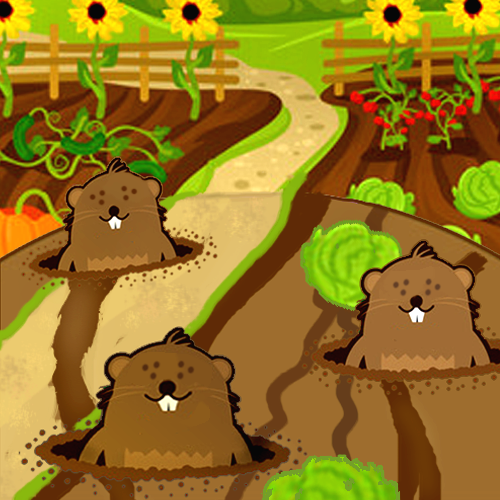
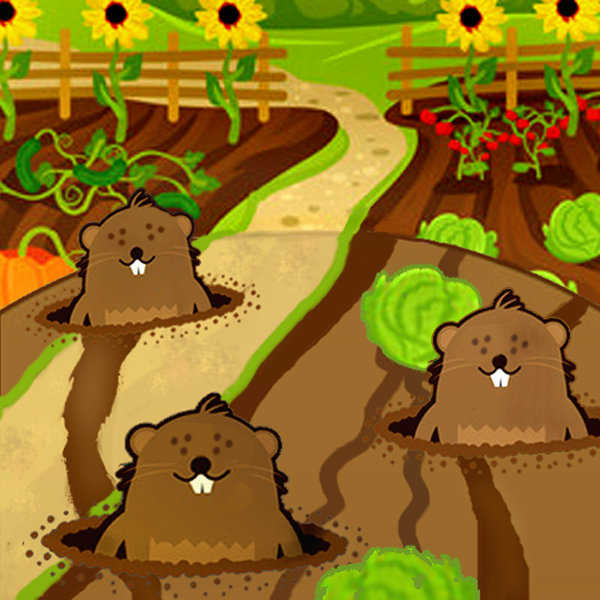
event class with image and initial option text

diff --git a/src/main/java/thesimpleton/events/GophersEvent.java b/src/main/java/thesimpleton/events/GophersEvent.java
@@ -1,0 +1,167 @@
+package thesimpleton.events;
+
+import com.megacrit.cardcrawl.core.CardCrawlGame;
+import com.megacrit.cardcrawl.dungeons.AbstractDungeon;
+import com.megacrit.cardcrawl.localization.EventStrings;
+import com.megacrit.cardcrawl.relics.AbstractRelic;
+import com.megacrit.cardcrawl.relics.PotionBelt;
+import com.megacrit.cardcrawl.rooms.AbstractRoom;
+import thesimpleton.TheSimpletonMod;
+import thesimpleton.cards.SimpletonUtil;
+import thesimpleton.events.SimpletonEventHelper.EventState;
+
+import java.util.ArrayList;
+import java.util.List;
+
+public class GophersEvent extends CustomSimpletonEvent {
+  public static final String ID = TheSimpletonMod.makeID("GophersEvent");
+
+  private static final String IMG_PATH = SimpletonEventHelper.getUiPath("gophers1");
+  private static final EventStrings eventStrings;
+  private static final String NAME;
+  private static final String[] DESCRIPTIONS;
+  private static final String[] OPTIONS;
+  private static final List<Integer> chosenOptions = new ArrayList();
+  private static final List<Integer> disabledOptions = new ArrayList();
+
+  private static AbstractRelic RELIC_REWARD = new PotionBelt();
+
+  private EventState state;
+
+  private final int[] FAIL_CHANCE_PERCENTAGES = { 25, 33, 50 };
+  private static final int MAX_HP_PER_TIER = 5;
+  private static final int GOLD_PER_TIER = 65;
+  private static final int GOLD_MAX_EXTRA = 20;
+
+  private static final float HP_PERCENT_LOST_PER_TIER = 0.11F;
+
+  private int rewardCounter = 1;
+  private final int goldBonus;
+
+  public GophersEvent() {
+    super(NAME, DESCRIPTIONS[0],  TheSimpletonMod.getResourcePath(IMG_PATH));
+
+    // TODO: Handle case where no upgradable cards, etc.
+
+    // TODO: UPDATE TEXT/IMAGE AFTER EATEN BY GOPHER (SUCCESS)
+
+    this.goldBonus = GOLD_PER_TIER + AbstractDungeon.eventRng.random(GOLD_MAX_EXTRA + 1);
+    updateDialogOptions();
+    this.state = EventState.WAITING;
+    CardCrawlGame.sound.play("GOPHER_LAUGH");
+  }
+
+  @Override
+  protected void buttonEffect(int buttonPressed) {
+    switch (state) {
+      case WAITING:
+        switch (buttonPressed) {
+          case 0:
+            break;
+
+          case 1:
+            break;
+
+          case 2:
+            break;
+
+          case 3:
+            break;
+
+          case 4:
+            break;
+
+          case 5:
+            break;
+
+          default:
+            break;
+        }
+
+        // TODO: if not bitten, gopher eats a random remaning options
+
+        boolean done = true;
+        if (done) {
+          this.imageEventText.clearAllDialogs();
+          this.imageEventText.setDialogOption(OPTIONS[25]);
+          this.state = EventState.LEAVING;
+          AbstractDungeon.getCurrRoom().phase = AbstractRoom.RoomPhase.COMPLETE;
+        }
+        break;
+      case LEAVING:
+        this.imageEventText.clearAllDialogs();
+        this.imageEventText.setDialogOption(OPTIONS[25]);
+        openMap();
+        break;
+    }
+  }
+
+  private void updateDialogOptions() {
+    /*
+     * OPTIONS
+     * 1) Upgrade N random cards
+     * 2) Gain N * X Max HP
+     * 3) Gain N random (common?) relics
+     * 4) Gain N * X Gold
+     * 5) Gain N random upgraded Rare cards
+     * 6) Gain X (potion slots and) random Potions
+     */
+    final int FAIL_PCT = FAIL_CHANCE_PERCENTAGES[this.rewardCounter - 1];
+    final int HP_LOSS =  Math.max ((int)(HP_PERCENT_LOST_PER_TIER * this.rewardCounter * AbstractDungeon.player.maxHealth), 6);
+    final String loseDesc = OPTIONS[2] + FAIL_PCT + OPTIONS[3] + OPTIONS[4] + HP_LOSS + OPTIONS[5];
+
+    if (this.rewardCounter == 1) {
+      this.imageEventText.setDialogOption(OPTIONS[0] + OPTIONS[6] + OPTIONS[7] + loseDesc);
+      this.imageEventText.setDialogOption(OPTIONS[0] + OPTIONS[9] + (this.rewardCounter + MAX_HP_PER_TIER) + OPTIONS[10] + loseDesc);
+//      this.imageEventText.setDialogOption(OPTIONS[0] + OPTIONS[11] + OPTIONS[12] + loseDesc);
+      this.imageEventText.setDialogOption(OPTIONS[0] + OPTIONS[14] + (this.rewardCounter + goldBonus) + OPTIONS[15] + loseDesc);
+      this.imageEventText.setDialogOption(OPTIONS[0] + OPTIONS[16] + OPTIONS[17] + loseDesc);
+      this.imageEventText.setDialogOption(OPTIONS[0] + (!AbstractDungeon.player.hasRelic(RELIC_REWARD.relicId)
+            ? OPTIONS[19] + SimpletonUtil.tagString(RELIC_REWARD.name, "#g") + OPTIONS[20] : "")
+            + OPTIONS[21] + OPTIONS[22] + loseDesc);
+      this.imageEventText.setDialogOption(OPTIONS[25]);
+
+    } else {
+      for (Integer chosenOption: chosenOptions) {
+        this.imageEventText.removeDialogOption(chosenOption);
+      }
+      for (Integer disabledOption: disabledOptions) {
+        this.imageEventText.updateDialogOption(disabledOption, OPTIONS[24], true);
+      }
+
+//      if (!chosenOptions.contains(0) && !disabledOptions.contains(0)) {
+//        this.imageEventText.updateDialogOption(0, OPTIONS[0] + OPTIONS[6] + this.rewardCounter + OPTIONS[8] + loseDesc);
+//      }
+
+      if (!chosenOptions.contains(1) && !disabledOptions.contains(1)) {
+        this.imageEventText.updateDialogOption(1,OPTIONS[0] + OPTIONS[9] + this.rewardCounter + MAX_HP_PER_TIER + OPTIONS[10] + loseDesc);
+      }
+
+      if (!chosenOptions.contains(2) && !disabledOptions.contains(2)) {
+        this.imageEventText.updateDialogOption(2,OPTIONS[0] + OPTIONS[11] + this.rewardCounter + OPTIONS[13] + loseDesc);
+      }
+
+      if (!chosenOptions.contains(3) && !disabledOptions.contains(3)) {
+        this.imageEventText.updateDialogOption(3,OPTIONS[0] + OPTIONS[14] + this.rewardCounter + goldBonus + OPTIONS[15] + loseDesc);
+      }
+
+      if (!chosenOptions.contains(4) && !disabledOptions.contains(4)) {
+        this.imageEventText.updateDialogOption(4,OPTIONS[0] + OPTIONS[16] + this.rewardCounter + OPTIONS[18] + loseDesc);
+      }
+
+      if (!chosenOptions.contains(5) && !disabledOptions.contains(5)) {
+        this.imageEventText.updateDialogOption(5, OPTIONS[0]
+            + (!AbstractDungeon.player.hasRelic(RELIC_REWARD.relicId)
+            ? OPTIONS[19] + SimpletonUtil.tagString(RELIC_REWARD.name, "#g") + OPTIONS[20] : "")
+            + OPTIONS[21] + this.rewardCounter + OPTIONS[23] + loseDesc);
+      }
+    }
+  }
+
+  static {
+    eventStrings = CardCrawlGame.languagePack.getEventString(ID);
+    NAME = eventStrings.NAME;
+    DESCRIPTIONS = eventStrings.DESCRIPTIONS;
+    OPTIONS = eventStrings.OPTIONS;
+  }
+}

diff --git a/src/main/java/thesimpleton/TheSimpletonMod.java b/src/main/java/thesimpleton/TheSimpletonMod.java
@@ -450,6 +450,7 @@ public class TheSimpletonMod implements EditCardsSubscriber, EditCharactersSubsc
         BaseMod.addEvent(EarlyThawEvent.ID, EarlyThawEvent.class, Exordium.ID);
         BaseMod.addEvent(FirefliesEvent.ID, FirefliesEvent.class, Exordium.ID);
         BaseMod.addEvent(BorealisEvent.ID, BorealisEvent.class, TheCity.ID);
+        BaseMod.addEvent(GophersEvent.ID, GophersEvent.class, TheCity.ID);
         BaseMod.addEvent(HeatWaveEvent.ID, HeatWaveEvent.class, TheCity.ID);
     }
 
@@ -502,6 +503,8 @@ public class TheSimpletonMod implements EditCardsSubscriber, EditCharactersSubsc
             new Sfx("TheSimpletonMod/sounds/TheSimpleton_FallMeadow1.ogg"));
         reflectedMap.put("GIBBERISH_ANGRY_1",
             new Sfx("TheSimpletonMod/sounds/TheSimpleton_GibberishAngry1.ogg"));
+        reflectedMap.put("GOPHER_LAUGH",
+            new Sfx("TheSimpletonMod/sounds/TheSimpleton_GopherLaugh1.ogg"));
         reflectedMap.put("GRADUAL_RUMBLE_1",
             new Sfx("TheSimpletonMod/sounds/TheSimpleton_GradualBuzz1.ogg"));
         reflectedMap.put("HOOTING_BIRD_1",

diff --git a/src/main/java/thesimpleton/seasons/SeasonalEvents.java b/src/main/java/thesimpleton/seasons/SeasonalEvents.java
@@ -73,7 +73,7 @@ public class SeasonalEvents {
                 Arrays.asList(SnowedInEvent.ID), Arrays.asList(BorealisEvent.ID), Collections.emptyList());
 
         SPRING_EVENTS = new SeasonalEvents(
-                Arrays.asList(EarlyThawEvent.ID), Collections.emptyList(), Collections.emptyList());
+                Arrays.asList(EarlyThawEvent.ID),  Arrays.asList(GophersEvent.ID), Collections.emptyList());
 
         SUMMER_EVENTS = new SeasonalEvents(
                 Arrays.asList(FirefliesEvent.ID), Arrays.asList(HeatWaveEvent.ID), Collections.emptyList());

diff --git a/src/main/java/thesimpleton/cards/SimpletonUtil.java b/src/main/java/thesimpleton/cards/SimpletonUtil.java
@@ -193,4 +193,8 @@ public class SimpletonUtil {
     }
 
     public static boolean playerHasStartingOrbs() { return AbstractDungeon.player.masterMaxOrbs > 0; }
+
+    public static String tagString(String stringToTag, String tag) {
+        return tag + stringToTag.replaceAll("(\\s)", "$1" + tag);
+    }
 }

diff --git a/src/main/java/thesimpleton/events/SimpletonEventHelper.java b/src/main/java/thesimpleton/events/SimpletonEventHelper.java
@@ -221,6 +221,7 @@ public class SimpletonEventHelper {
         BorealisEvent.ID,
         EarlyThawEvent.ID,
         EquipmentShedEvent.ID,
+        GophersEvent.ID,
         HeatWaveEvent.ID,
         FirefliesEvent.ID,
         ReaptideEvent.ID,
